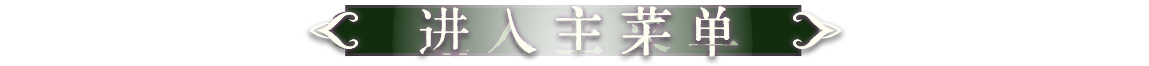
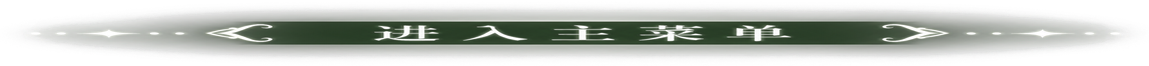
Update intro page UI assets

diff --git a/game/src/index.css b/game/src/index.css
@@ -2911,7 +2911,7 @@ textarea {
     width: 100%;
     height: 100%;
     object-fit: fill;
-    filter: saturate(0.78) contrast(0.8) brightness(0.88);
+    filter: saturate(0.76) contrast(0.86) brightness(0.58);
     pointer-events: none;
     user-select: none;
   }
@@ -2924,23 +2924,23 @@ textarea {
     background:
       linear-gradient(
         180deg,
-        rgba(126, 142, 136, 0.16) 0%,
-        rgba(92, 111, 103, 0.08) 18%,
-        rgba(4, 10, 8, 0) 38%,
-        rgba(3, 10, 7, 0.1) 72%,
-        rgba(3, 8, 6, 0.08) 100%
+        rgba(6, 16, 15, 0.3) 0%,
+        rgba(7, 19, 18, 0.1) 22%,
+        rgba(4, 12, 10, 0.08) 46%,
+        rgba(5, 14, 11, 0.28) 76%,
+        rgba(3, 9, 7, 0.36) 100%
       ),
       radial-gradient(
-        ellipse 46% 48% at 18% 56%,
-        rgba(3, 10, 7, 0.24) 0%,
-        rgba(3, 10, 7, 0.16) 34%,
-        rgba(3, 10, 7, 0) 66%
+        ellipse 58% 54% at 50% 48%,
+        rgba(222, 232, 188, 0.09) 0%,
+        rgba(170, 201, 174, 0.05) 38%,
+        rgba(5, 13, 10, 0) 68%
       ),
       radial-gradient(
-        ellipse 28% 28% at 53% 58%,
-        rgba(236, 236, 204, 0.14) 0%,
-        rgba(216, 225, 188, 0.08) 35%,
-        rgba(216, 225, 188, 0) 70%
+        ellipse 88% 80% at 50% 50%,
+        rgba(3, 9, 8, 0) 0%,
+        rgba(3, 9, 8, 0.12) 55%,
+        rgba(1, 5, 4, 0.54) 100%
       );
     pointer-events: none;
   }
@@ -2952,65 +2952,65 @@ textarea {
     left: 0;
     right: 0;
     bottom: 0;
-    height: 25%;
+    height: 25.5%;
     background: linear-gradient(
       180deg,
-      rgba(6, 12, 10, 0) 0%,
-      rgba(6, 13, 10, 0.36) 8%,
-      rgba(5, 11, 8, 0.62) 48%,
-      rgba(3, 8, 6, 0.82) 100%
+      rgba(5, 12, 10, 0) 0%,
+      rgba(8, 17, 13, 0.42) 8%,
+      rgba(6, 13, 10, 0.7) 48%,
+      rgba(2, 7, 5, 0.9) 100%
     );
     pointer-events: none;
   }
 
   .intro-page__top-copy,
   .intro-page__title,
-  .intro-page__side-menu,
   .intro-page__enter,
-  .intro-page__side-hotspot {
+  .intro-page__side-action {
     position: absolute;
   }
 
   .intro-page__top-copy,
-  .intro-page__title,
-  .intro-page__side-menu {
+  .intro-page__title {
     z-index: 3;
     object-fit: fill;
     pointer-events: none;
     user-select: none;
   }
 
-  .intro-page__side-menu {
-    filter: saturate(0.88) brightness(0.94);
+  .intro-page__top-copy {
+    filter: drop-shadow(0 0 5px rgba(255, 253, 232, 0.18));
   }
 
-  .intro-page__side-hotspot {
+  .intro-page__title {
+    filter: drop-shadow(0 0 11px rgba(255, 255, 221, 0.14));
+  }
+
+  .intro-page__side-action {
     z-index: 5;
     border: 0;
     padding: 0;
     background: transparent;
     cursor: pointer;
     overflow: visible;
+    transition: filter 160ms ease, transform 160ms ease;
   }
 
-  .intro-page__side-hotspot::after {
-    content: "";
-    position: absolute;
-    z-index: 0;
-    inset: 9% 13%;
-    border-radius: 999px;
-    background: rgba(255, 245, 206, 0);
-    transition: background 160ms ease, filter 160ms ease;
+  .intro-page__side-action img {
+    display: block;
+    width: 100%;
+    height: 100%;
+    object-fit: fill;
     pointer-events: none;
+    user-select: none;
   }
 
-  .intro-page__side-hotspot:hover::after,
-  .intro-page__side-hotspot:focus-visible::after {
-    background: rgba(255, 245, 206, 0.08);
-    filter: blur(1px);
+  .intro-page__side-action:hover,
+  .intro-page__side-action:focus-visible {
+    filter: drop-shadow(0 0 9px rgba(245, 218, 143, 0.28));
   }
 
-  .intro-page__side-hotspot:focus-visible {
+  .intro-page__side-action:focus-visible {
     outline: none;
   }
 
@@ -3033,13 +3033,13 @@ textarea {
 
   .intro-page__enter--enabled {
     cursor: pointer;
-    filter: drop-shadow(0 0 12px rgba(255, 255, 224, 0.14));
+    filter: drop-shadow(0 0 9px rgba(255, 255, 224, 0.18));
     transition: filter 160ms ease;
   }
 
   .intro-page__enter--enabled:hover,
   .intro-page__enter--enabled:focus-visible {
-    filter: drop-shadow(0 0 18px rgba(255, 255, 224, 0.26));
+    filter: drop-shadow(0 0 16px rgba(255, 255, 224, 0.34));
   }
 
   .intro-page__enter:focus-visible {

diff --git a/game/src/components/IntroView.tsx b/game/src/components/IntroView.tsx
@@ -6,7 +6,6 @@ import { resolveAssetUrl } from '../utils/assets';
 
 const REF_W = 1920;
 const REF_H = 1080;
-const SIDE_MENU_RECT = { left: 1753, top: 87, width: 81, height: 462 };
 
 type IntroPanel = 'notice' | 'activity' | 'settings' | null;
 type SideActionId = 'notice' | 'activity' | 'codex' | 'settings';
@@ -21,15 +20,17 @@ const refRect = (left: number, top: number, width: number, height: number) => ({
 const SIDE_ACTIONS: Array<{
   id: SideActionId;
   label: string;
+  asset: string;
+  left: number;
   top: number;
+  width: number;
+  height: number;
 }> = [
-  { id: 'notice', label: '公告', top: 87 },
-  { id: 'activity', label: '活动', top: 207 },
-  { id: 'codex', label: '图鉴', top: 327 },
-  { id: 'settings', label: '设置', top: 447 },
+  { id: 'notice', label: '公告', asset: '/assets/intro/v2/notice.png', left: 1753, top: 89, width: 79, height: 102 },
+  { id: 'activity', label: '活动', asset: '/assets/intro/v2/activity.png', left: 1753, top: 207, width: 79, height: 102 },
+  { id: 'codex', label: '图鉴', asset: '/assets/intro/v2/codex.png', left: 1753, top: 323, width: 79, height: 102 },
+  { id: 'settings', label: '设置', asset: '/assets/intro/v2/settings.png', left: 1753, top: 439, width: 79, height: 104 },
 ];
-
-const sideMenuRect = () => refRect(SIDE_MENU_RECT.left, SIDE_MENU_RECT.top, SIDE_MENU_RECT.width, SIDE_MENU_RECT.height);
 
 const PlaceholderPanel: React.FC<{
   type: Exclude<IntroPanel, 'settings' | null>;
@@ -184,42 +185,37 @@ export const IntroView: React.FC = () => {
             />
             <img
               className="intro-page__top-copy"
-              src={resolveAssetUrl('/assets/intro/top_copy.png')}
+              src={resolveAssetUrl('/assets/intro/v2/top_copy.png')}
               alt="循五行，辨寒热虚实。以巡诊构筑为引，在一次次取舍中理解药性、生克与证候变化。"
               style={refRect(79, 81, 509, 65)}
             />
             <img
               className="intro-page__title"
-              src={resolveAssetUrl('/assets/intro/title.png')}
+              src={resolveAssetUrl('/assets/intro/v2/title.png')}
               alt="五行医道"
-              style={refRect(611, 263, 738, 296)}
-            />
-            <img
-              className="intro-page__side-menu"
-              src={resolveAssetUrl('/assets/intro/side_menu.png')}
-              alt=""
-              aria-hidden="true"
-              style={sideMenuRect()}
+              style={refRect(528, 232, 913, 356)}
             />
             {SIDE_ACTIONS.map((action) => (
               <button
                 key={action.id}
                 type="button"
-                className="intro-page__side-hotspot"
-                style={refRect(1738, action.top - 6, 111, 104)}
+                className="intro-page__side-action"
+                style={refRect(action.left, action.top, action.width, action.height)}
                 aria-label={action.label}
                 onClick={() => handleSideAction(action.id)}
-              />
+              >
+                <img src={resolveAssetUrl(action.asset)} alt="" aria-hidden="true" />
+              </button>
             ))}
             <button
               type="button"
               className="intro-page__enter intro-page__enter--enabled"
-              style={refRect(431, 895, 1149, 66)}
+              style={refRect(483, 894, 955, 54)}
               onClick={handleEnter}
               aria-label="进入主菜单"
             >
               <img
-                src={resolveAssetUrl('/assets/intro/enter_main_menu.png')}
+                src={resolveAssetUrl('/assets/intro/v2/enter_main_menu.png')}
                 alt=""
                 aria-hidden="true"
               />

diff --git a/game/src/data/runtimeAssetManifest.ts b/game/src/data/runtimeAssetManifest.ts
@@ -1321,13 +1321,8 @@ export const RUNTIME_ASSET_MANIFEST: RuntimeAssetManifestEntry[] = [
     "stage": "static"
   },
   {
-    "path": "/assets/intro/background.webp",
-    "bytes": 209500,
-    "stage": "static"
-  },
-  {
     "path": "/assets/intro/enter_main_menu.png",
-    "bytes": 50967,
+    "bytes": 93122,
     "stage": "static"
   },
   {
@@ -1371,8 +1366,38 @@ export const RUNTIME_ASSET_MANIFEST: RuntimeAssetManifestEntry[] = [
     "stage": "static"
   },
   {
-    "path": "/assets/main_menu/v2/background.webp",
-    "bytes": 82496,
+    "path": "/assets/intro/v2/activity.png",
+    "bytes": 12043,
+    "stage": "static"
+  },
+  {
+    "path": "/assets/intro/v2/codex.png",
+    "bytes": 10918,
+    "stage": "static"
+  },
+  {
+    "path": "/assets/intro/v2/enter_main_menu.png",
+    "bytes": 44913,
+    "stage": "static"
+  },
+  {
+    "path": "/assets/intro/v2/notice.png",
+    "bytes": 10961,
+    "stage": "static"
+  },
+  {
+    "path": "/assets/intro/v2/settings.png",
+    "bytes": 11573,
+    "stage": "static"
+  },
+  {
+    "path": "/assets/intro/v2/title.png",
+    "bytes": 173209,
+    "stage": "static"
+  },
+  {
+    "path": "/assets/intro/v2/top_copy.png",
+    "bytes": 29274,
     "stage": "static"
   },
   {
@@ -1704,7 +1729,17 @@ export const RUNTIME_ASSET_MANIFEST: RuntimeAssetManifestEntry[] = [
     "path": "/assets/cards_enemy/99.webp",
     "bytes": 2624920,
     "stage": "gif"
+  },
+  {
+    "path": "/assets/intro/background.webp",
+    "bytes": 5370324,
+    "stage": "gif"
+  },
+  {
+    "path": "/assets/main_menu/v2/background.webp",
+    "bytes": 4222990,
+    "stage": "gif"
   }
 ];
 
-export const TOTAL_RUNTIME_ASSET_BYTES = 61393978;
+export const TOTAL_RUNTIME_ASSET_BYTES = 71030342;

diff --git a/README.md b/README.md
@@ -63,7 +63,7 @@ wechatgame/
 │   │   ├── services/          # 音频 + 资源加载服务
 │   │   ├── utils/             # 资源路径、ID 生成、图片预载
 │   │   └── index.css          # 主要视觉系统（很大，先搜索再改）
-│   ├── public/assets/         # 运行时资源（当前工作区约360个文件，约96MiB）
+│   ├── public/assets/         # 运行时资源（当前工作区约368个文件，约105MiB）
 │   └── package.json
 ├── .github/workflows/pages.yml # GitHub Pages 自动部署
 ├── AI_HANDOFF.md              # 完整交接文档
@@ -88,7 +88,7 @@ wechatgame/
 | 24 张卡牌名称已完成全局统一重命名（药材名+功效） | ✅ |
 | 背景图全部换新（战斗/地图/休憩/药房/合成台），关键大图已转 WebP 并压缩到约 200KB 级别 | ✅ |
 | 敌人动画已由大体积 GIF 转为 480px 宽动画 WebP，`cards_enemy` 目录约 43.3MiB | ✅ |
-| 音频目录当前约35.6MiB；运行时资源当前工作区约95.9MiB，图片 manifest 约58.4MiB | ✅ |
+| 音频目录当前约35.6MiB；运行时资源当前工作区约105.2MiB，图片 manifest 约67.7MiB | ✅ |
 | 主页加载条按实际预加载资源（critical/static）统计进度，不再把延后加载的敌人动画计入总量 | ✅ |
 | 字体优化（宋体/Songti SC，macOS兼容） | ✅ |
 | 战斗UI去琥珀色，按幕次主题配色（天蓝/玫红/紫清） | ✅ |
@@ -112,6 +112,7 @@ wechatgame/
 | 无限地图 + Boss 独立通道（需3场战斗解锁） | ✅ |
 | 商店价格倍率系统 | ✅ |
 | 本地持久化存档 | ✅ |
+| 启动页 v2 资源拼装已接入：按示例图 1920×1080 坐标还原标题、文案、右侧入口和进入按钮 | ✅ |
 | 主菜单 v2 资源拼装已接入：默认态/hover 态同尺寸同锚点原地换图 | ✅ |
 | `黄芩清肺` 保留药材身份且可打出：0 费造成 4 点伤害并施加 1 层热邪 | ✅ |
 | 地图 v2 正在使用 `game/public/assets/map/v2/` 与 `map-v2-*` 样式 | 已接入，持续微调 |
@@ -172,6 +173,7 @@ wechatgame/
 | 改事件数据/效果 | `shared/data/events.ts` → `SIDE_EVENTS[]` / `getMainlineActData()` |
 | 改游戏流程、掉落、合成台状态 | `game/src/store/gameStore.ts` |
 | 改 UI / 页面 | `game/src/components/` + `game/src/index.css` |
+| 改启动页 UI | `game/src/components/IntroView.tsx` + `game/public/assets/intro/v2/` |
 | 改主菜单 UI | `game/src/components/StartMenu.tsx` + `game/public/assets/main_menu/` |
 | 改地图 v2 UI | `game/src/components/MapView.tsx` + `map-v2-*` CSS + `game/public/assets/map/v2/` |
 | 改战斗 v2 UI | `game/src/components/CombatView.tsx` + `combat-v2-*` CSS + `game/public/assets/combat/v2/` |
@@ -188,9 +190,9 @@ npm test -- --run
 npm run build
 ```
 
-当前验证（2026-05-26）：`npm test -- --run` 为 6 个测试文件、89 个测试用例通过。
+当前验证（2026-05-27）：`npm test -- --run` 为 6 个测试文件、90 个测试用例通过。
 
-`npm run build` 当前通过。主 JS chunk 约 487 kB，构建产物发布于 `game/dist/`。
+`npm run build` 当前通过。主 JS chunk 约 489 kB，构建产物发布于 `game/dist/`。
 
 ---
 
